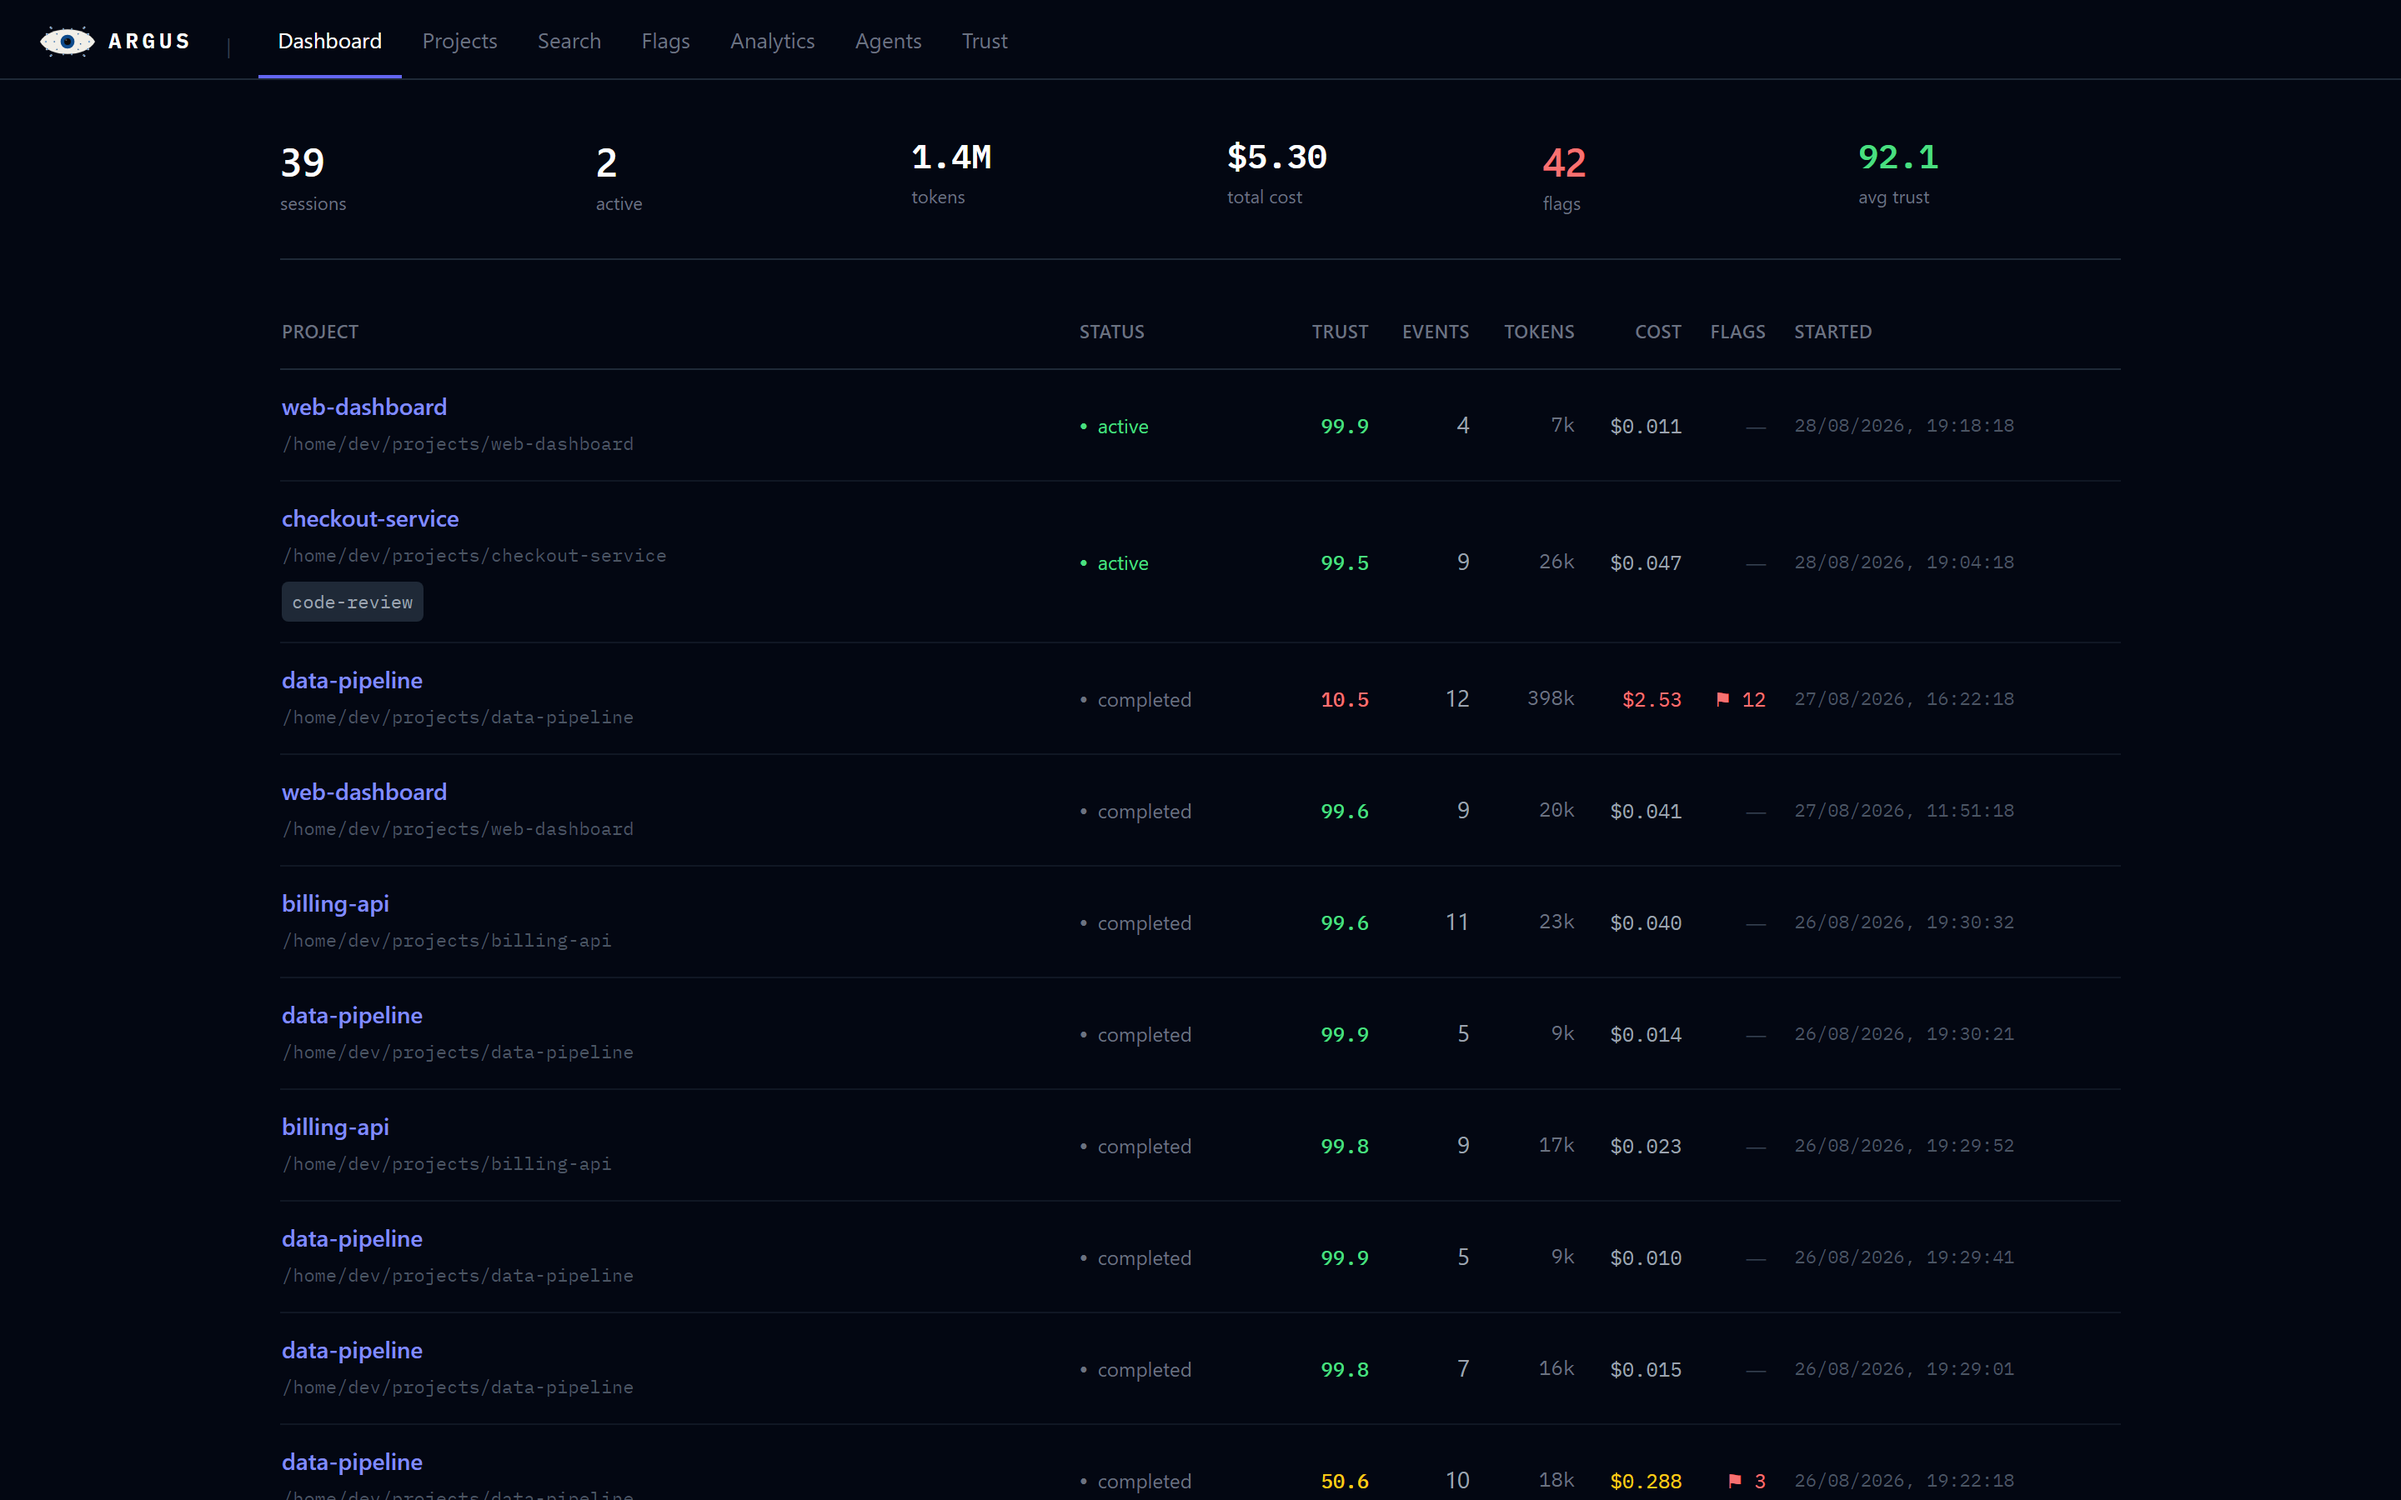
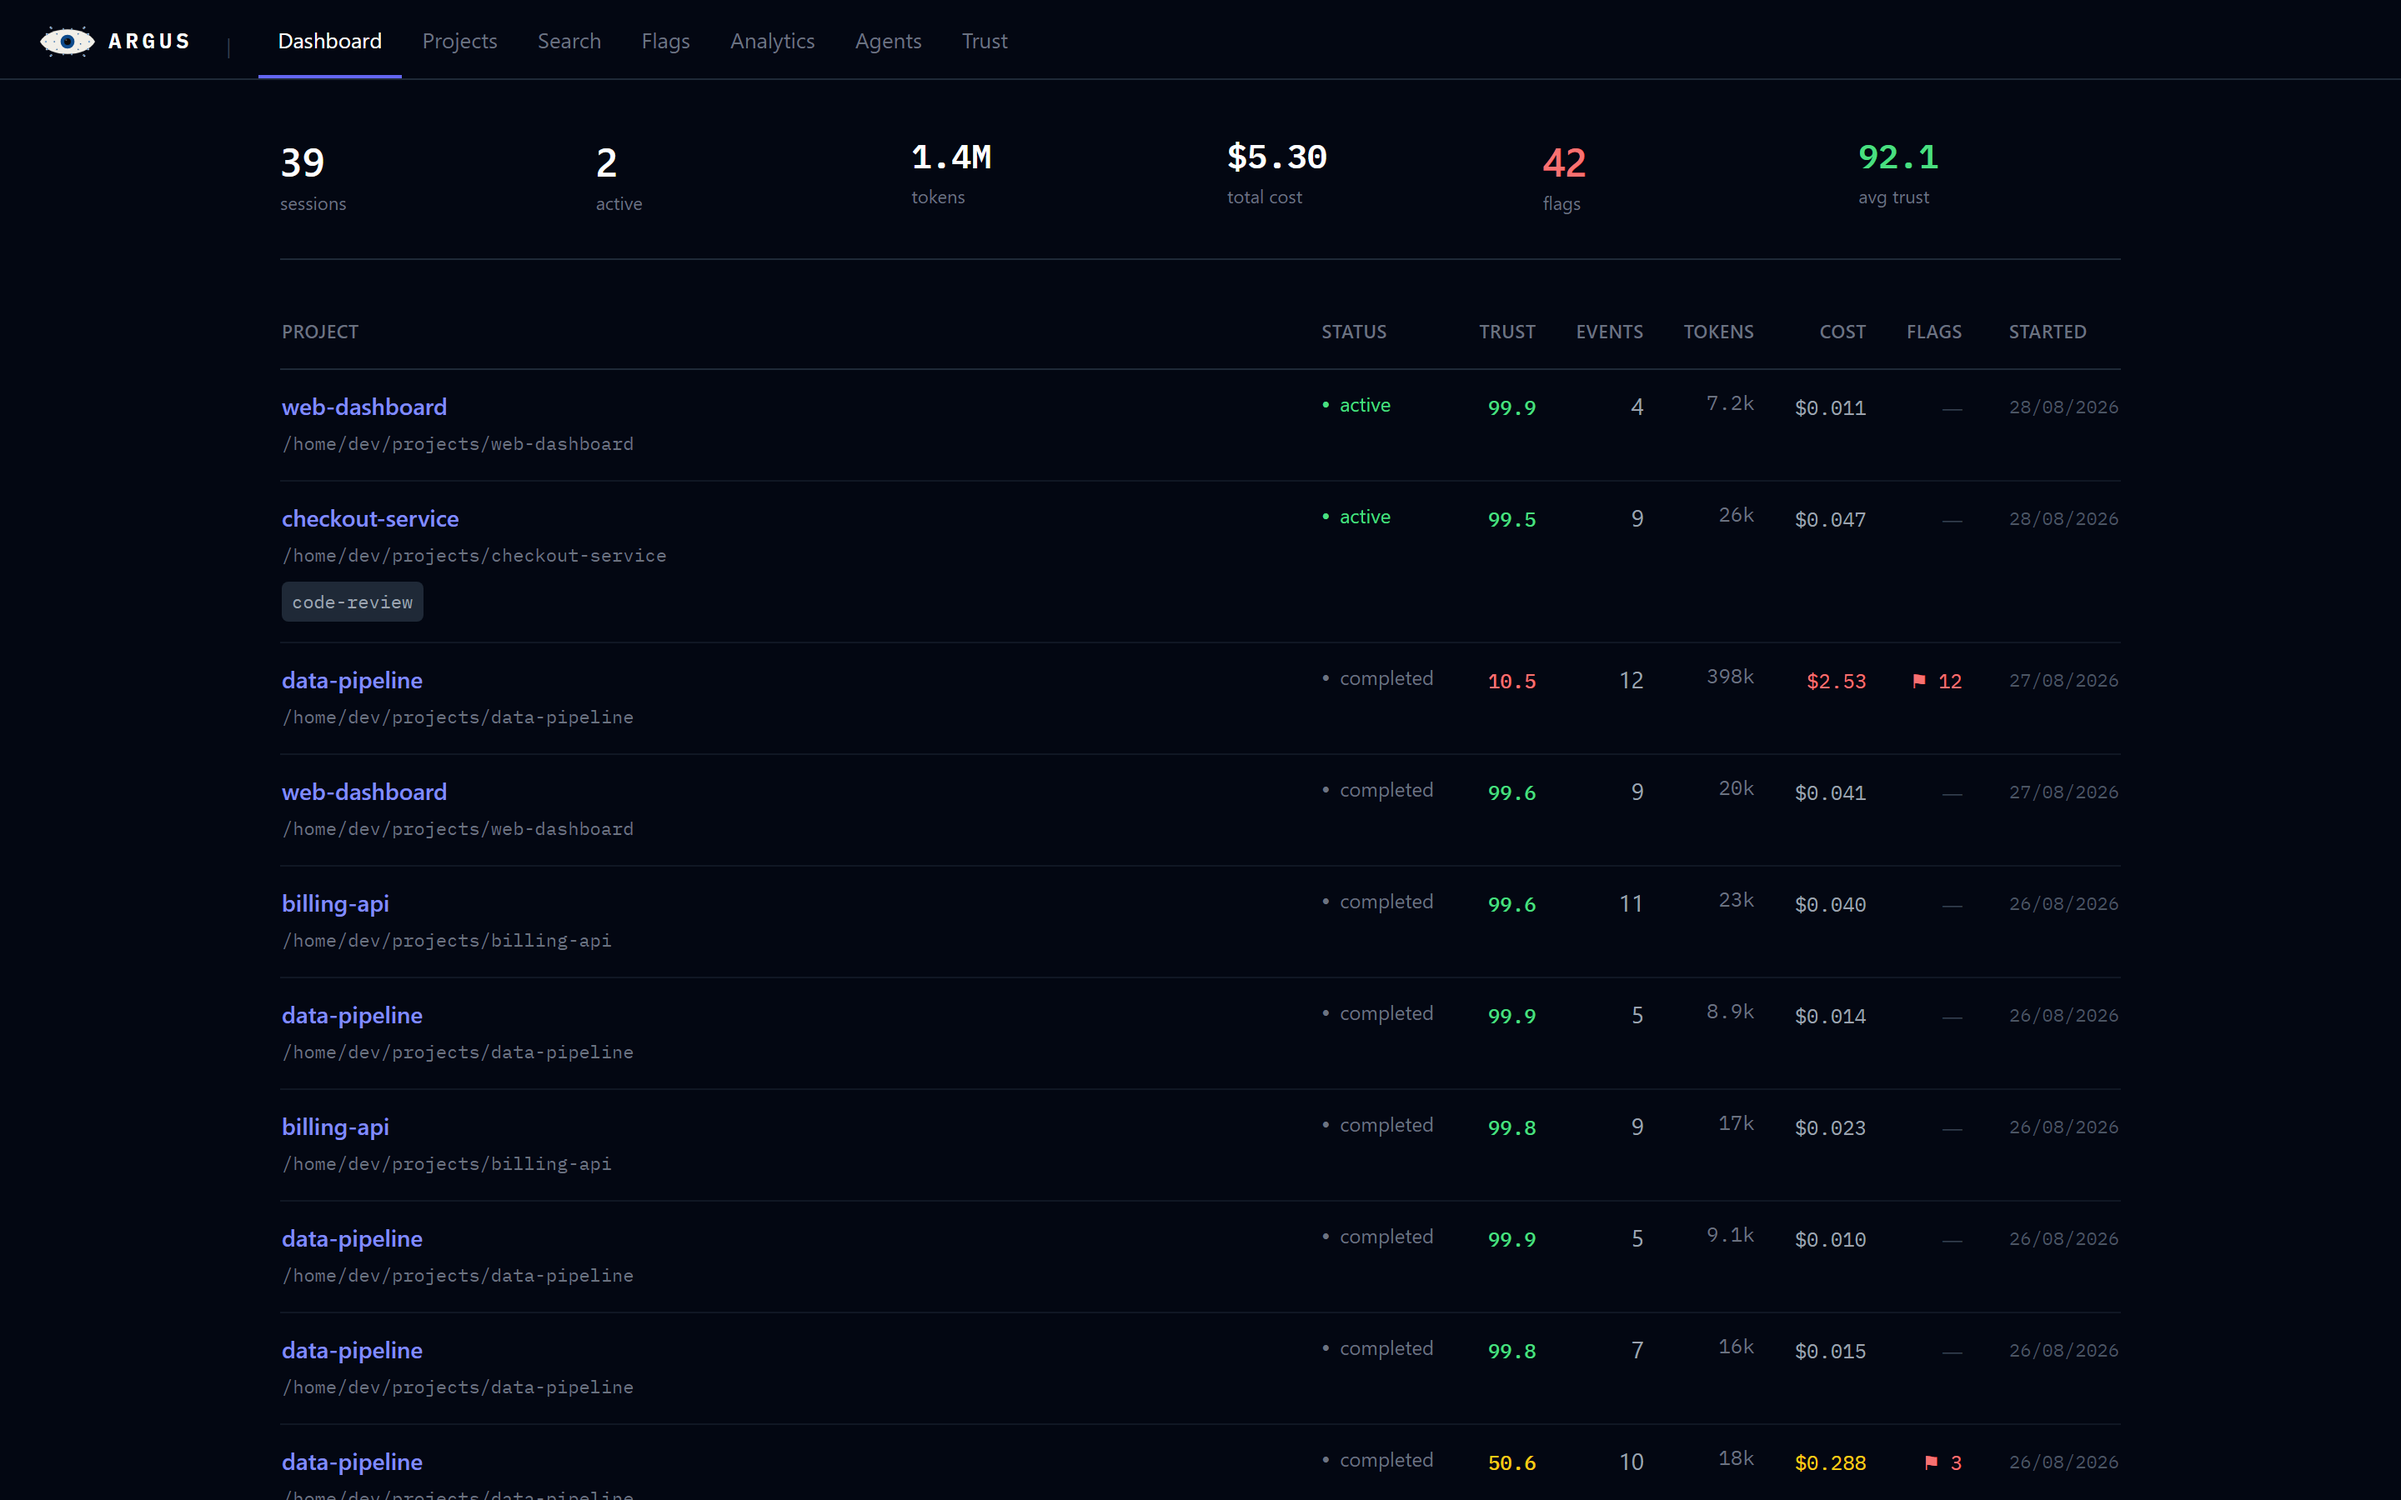
Fix the dashboard table: shared formatter, column widths, top alignment
The formatting fix never reached this page, because Dashboard.jsx defined its
own local fmtTokens instead of importing the one from format.js. A shared
formatter only helps the files that import it — this is exactly the failure the
module was created to prevent, hiding one directory away from the grep that
would have caught it.

The table had no column widths. With auto layout every column sizes to its
content, so Project (the longest) took most of the width and Trust, Events,
Tokens, Cost and Flags were crushed together at the right edge — `7k $0.011`
rendered as one string, and the headers no longer sat above their own data.
Project now carries `w-full` and absorbs the slack; every other column is
`whitespace-nowrap px-3` and sizes to its content with real padding.

Cells were also `vertical-align: middle` by default, so a row whose project cell
ran to three lines left the numbers floating in the middle while the name sat at
the top. Every cell is now `align-top`.

Smaller: the path was `text-gray-600` on `bg-gray-950` and close to unreadable
(now gray-500, with a title attribute), and every row carried a full timestamp
where a date is enough at this density.

Claude-Session: https://claude.ai/code/session_01YZFCXMCgXthyavM5CpMp4M

diff --git a/frontend/src/pages/Dashboard.jsx b/frontend/src/pages/Dashboard.jsx
@@ -1,17 +1,11 @@
 import { useEffect, useState } from 'react'
-import { money } from '../format.js'
+import { money, tokens as fmtTokens } from '../format.js'
 import { Link } from 'react-router-dom'
 import { API } from '../App.jsx'
 import CostBadge from '../components/CostBadge.jsx'
 import FlagBadge from '../components/FlagBadge.jsx'
 import TrustBadge from '../components/TrustBadge.jsx'
 import StatusBadge from '../components/StatusBadge.jsx'
-
-function fmtTokens(n) {
-  if (n >= 1e6) return `${(n / 1e6).toFixed(1)}M`
-  if (n >= 1e3) return `${Math.round(n / 1e3)}k`
-  return String(n)
-}
 
 function StatNum({ n, label, mono, warn, ok }) {
   const cls = warn ? 'text-red-400' : ok ? 'text-green-400' : 'text-white'
@@ -76,16 +70,18 @@ export default function Dashboard() {
       ) : (
         <div className="overflow-x-auto">
           <table className="w-full text-sm">
+            {/* Project takes the slack (w-full on its header);
+                every other column sizes to content and keeps its padding. */}
             <thead>
               <tr className="border-b border-gray-800">
-                <th className={`${TH} text-left`}>Project</th>
-                <th className={`${TH} text-left`}>Status</th>
-                <th className={`${TH} text-right`}>Trust</th>
-                <th className={`${TH} text-right`}>Events</th>
-                <th className={`${TH} text-right`}>Tokens</th>
-                <th className={`${TH} text-right`}>Cost</th>
-                <th className={`${TH} text-right`}>Flags</th>
-                <th className={`${TH} text-left pl-4`}>Started</th>
+                <th className={`${TH} w-full text-left`}>Project</th>
+                <th className={`${TH} text-left whitespace-nowrap px-3`}>Status</th>
+                <th className={`${TH} text-right whitespace-nowrap px-3`}>Trust</th>
+                <th className={`${TH} text-right whitespace-nowrap px-3`}>Events</th>
+                <th className={`${TH} text-right whitespace-nowrap px-3`}>Tokens</th>
+                <th className={`${TH} text-right whitespace-nowrap px-3`}>Cost</th>
+                <th className={`${TH} text-right whitespace-nowrap px-3`}>Flags</th>
+                <th className={`${TH} whitespace-nowrap pl-4 text-left`}>Started</th>
               </tr>
             </thead>
             <tbody>
@@ -95,11 +91,11 @@ export default function Dashboard() {
                   : s.id.slice(0, 8)
                 return (
                   <tr key={s.id} className="border-b border-gray-800/50 hover:bg-gray-900/50 transition-colors">
-                    <td className="py-3 pr-6">
+                    <td className="py-3 pr-6 align-top">
                       <Link to={`/sessions/${s.id}`} className="text-indigo-400 hover:text-indigo-300 font-medium">
                         {name}
                       </Link>
-                      <div className="text-gray-600 text-[11px] font-mono truncate max-w-xs mt-0.5">
+                      <div className="mt-0.5 max-w-xs truncate font-mono text-[11px] text-gray-500" title={s.project_path}>
                         {s.project_path}
                       </div>
                       {s.skill_counts?.length > 0 && (
@@ -111,18 +107,18 @@ export default function Dashboard() {
                         </div>
                       )}
                     </td>
-                    <td className="py-3 pr-4">
+                    <td className="py-3 px-3 align-top whitespace-nowrap">
                       <StatusBadge status={s.status} />
                     </td>
-                    <td className="py-3 text-right"><TrustBadge score={s.trust_score} /></td>
-                    <td className="py-3 text-right text-gray-400 tabular-nums">{s.event_count}</td>
-                    <td className="py-3 text-right text-gray-500 text-xs font-mono tabular-nums">
+                    <td className="py-3 px-3 text-right align-top"><TrustBadge score={s.trust_score} /></td>
+                    <td className="py-3 px-3 text-right align-top text-gray-400 tabular-nums">{s.event_count}</td>
+                    <td className="py-3 px-3 text-right align-top text-gray-500 text-xs font-mono tabular-nums">
                       {fmtTokens((s.total_input_tokens || 0) + (s.total_output_tokens || 0))}
                     </td>
-                    <td className="py-3 text-right"><CostBadge cost={s.total_cost_usd} /></td>
-                    <td className="py-3 text-right"><FlagBadge count={s.flag_count} /></td>
-                    <td className="py-3 pl-4 text-gray-600 text-[11px] font-mono tabular-nums">
-                      {new Date(s.started_at).toLocaleString()}
+                    <td className="py-3 px-3 text-right align-top"><CostBadge cost={s.total_cost_usd} /></td>
+                    <td className="py-3 px-3 text-right align-top"><FlagBadge count={s.flag_count} /></td>
+                    <td className="py-3 pl-4 align-top whitespace-nowrap text-gray-600 text-[11px] font-mono tabular-nums">
+                      {new Date(s.started_at).toLocaleDateString()}
                     </td>
                   </tr>
                 )
